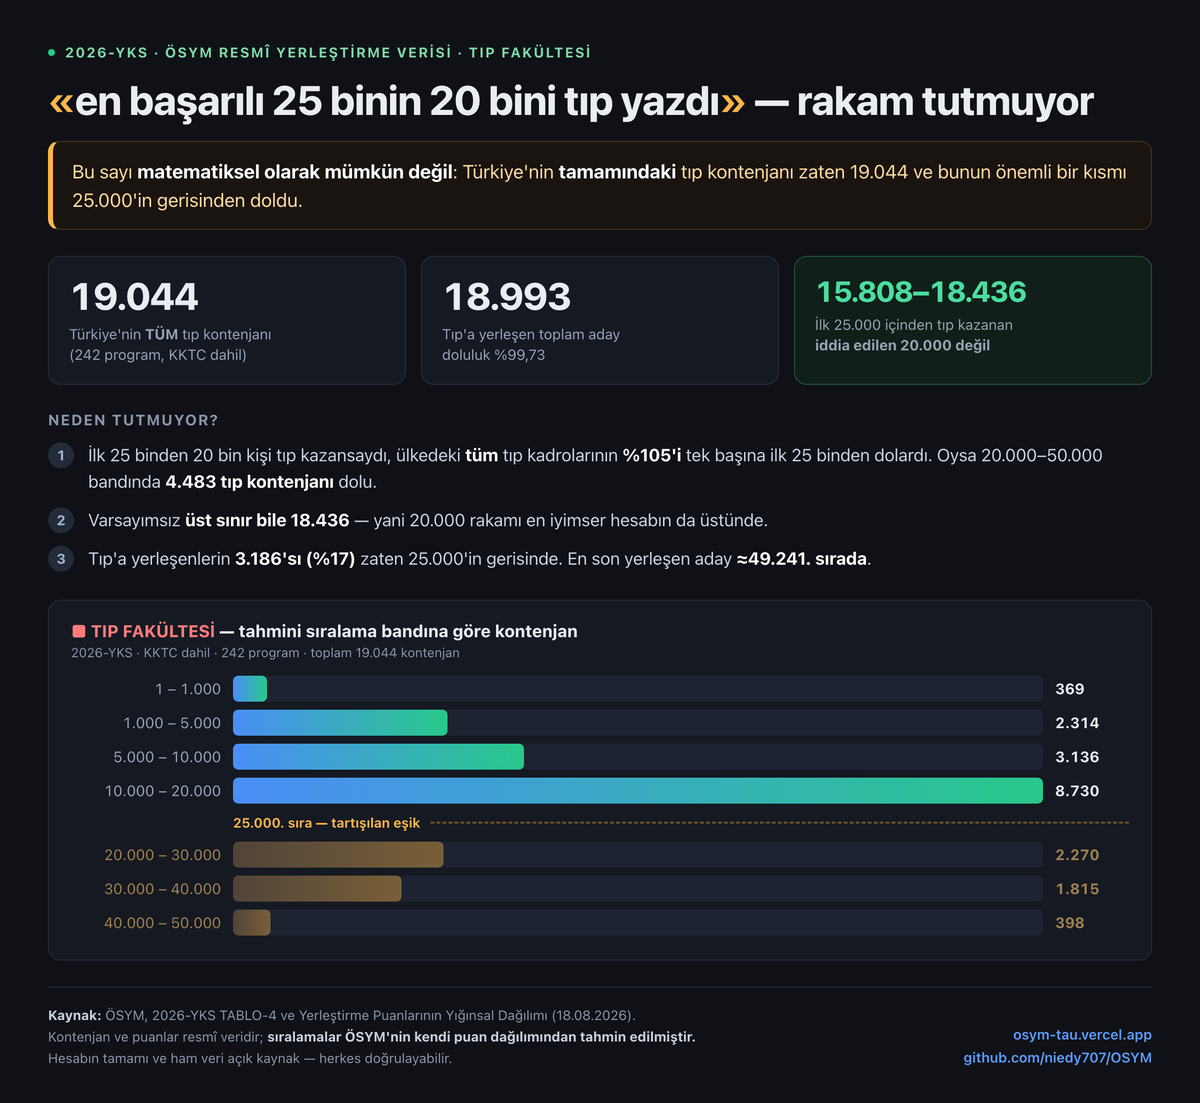
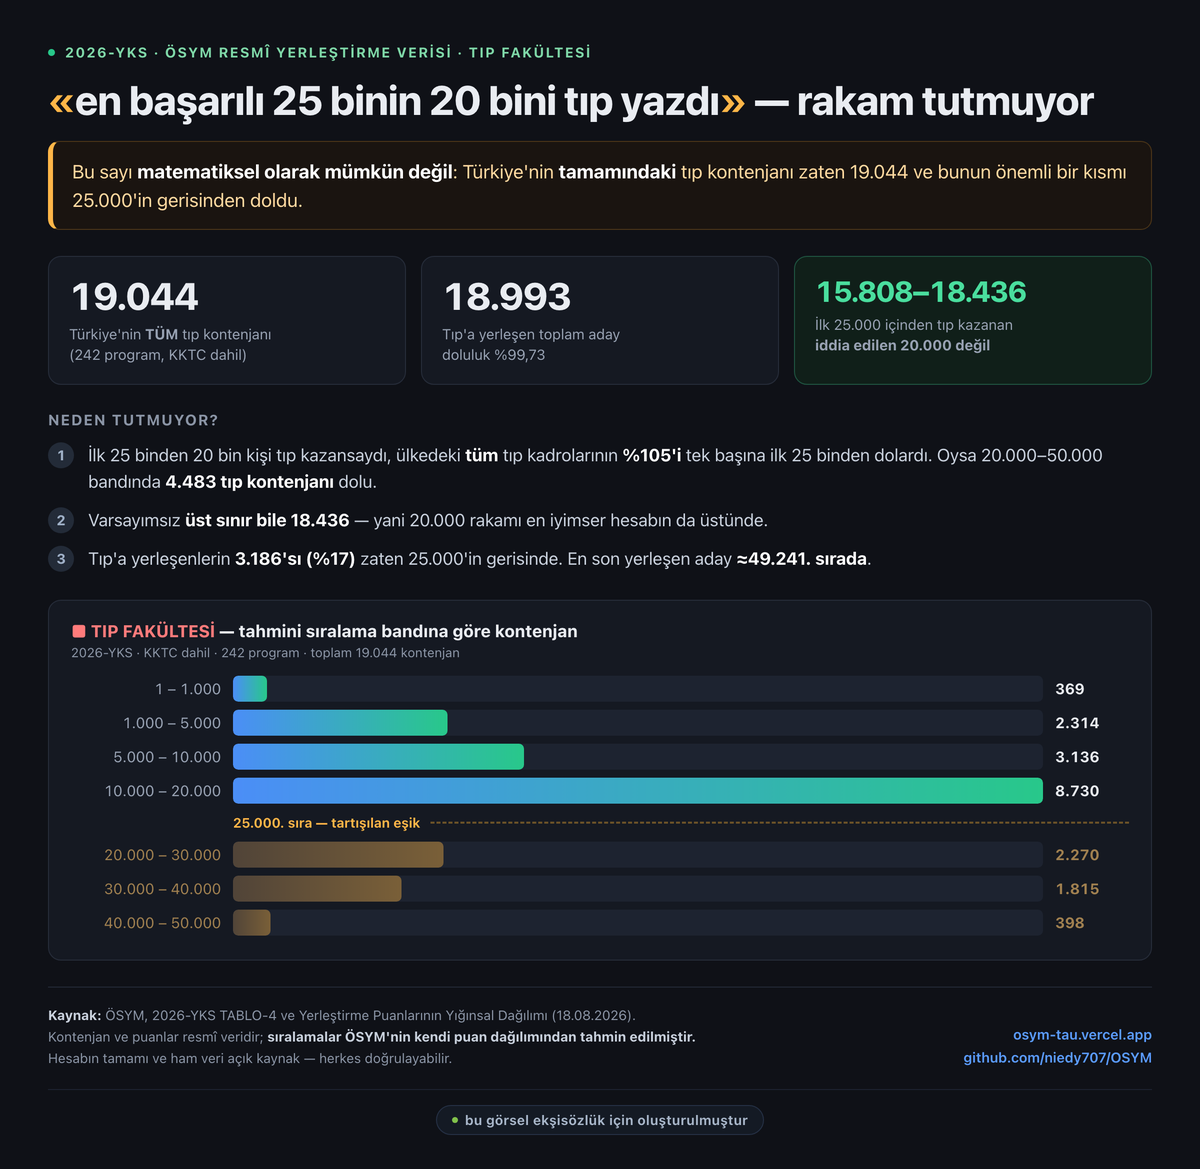
Paylaşım görseline ekşisözlük imza şeridi ekle
Görsel o başlığa doğrudan cevap olarak üretildiği için kaynağını kendi
üzerinde taşıyor; arayüz tarafında hiçbir platforma özel içerik yok.

Changed region(s): [[0.0308, 0.0308, 0.9558, 0.9864], [0.6783, 0.2158, 0.8633, 0.3391], [0.37, 0.2466, 0.5242, 0.3391]]

diff --git a/paylas.html b/paylas.html
@@ -50,6 +50,11 @@ h1 .q{color:#ffb648}
 .foot .src{font-size:13.5px;color:#8b95a6;line-height:1.6}
 .foot .src b{color:#c9d1dd}
 .foot .lnk{font-size:14px;color:#5b9cff;text-align:right;line-height:1.65;flex-shrink:0;font-weight:600}
+.sign{margin-top:20px;padding-top:15px;border-top:1px solid #1c2230;display:flex;
+  align-items:center;justify-content:center;gap:9px;color:#6f7b8d;font-size:13.5px;letter-spacing:.3px}
+.sign .es{display:inline-flex;align-items:center;gap:7px;background:#141a24;border:1px solid #253044;
+  border-radius:20px;padding:6px 15px;color:#a8b6c9;font-weight:650}
+.sign .es .d{width:6px;height:6px;border-radius:50%;background:#81c14b}
 </style></head><body>
 <div class="card">
   <div class="kicker"><span class="dot"></span>2026-YKS · ÖSYM RESMÎ YERLEŞTİRME VERİSİ · TIP FAKÜLTESİ</div>
@@ -98,6 +103,10 @@ h1 .q{color:#ffb648}
       Kontenjan ve puanlar resmî veridir; <b>sıralamalar ÖSYM'nin kendi puan dağılımından tahmin edilmiştir.</b><br>
       Hesabın tamamı ve ham veri açık kaynak — herkes doğrulayabilir.</div>
     <div class="lnk">osym-tau.vercel.app<br>github.com/niedy707/OSYM</div>
+  </div>
+
+  <div class="sign">
+    <span class="es"><span class="d"></span>bu görsel ekşisözlük için oluşturulmuştur</span>
   </div>
 </div>
 </body></html>
